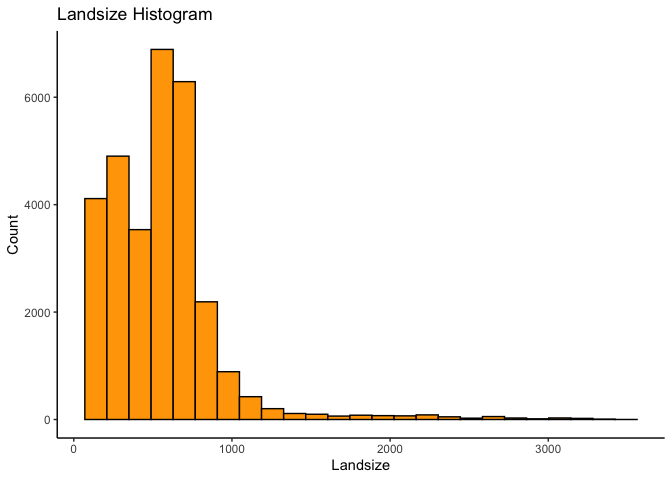
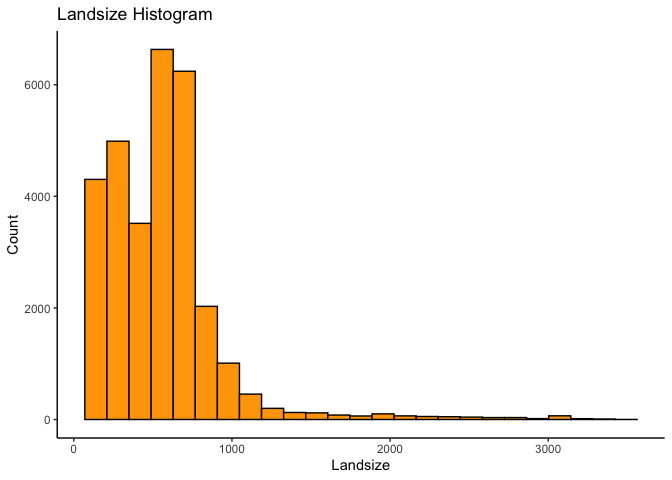
Changed parameter of 'geom_vline' functions due to package update.

diff --git a/README.md b/README.md
@@ -1258,20 +1258,20 @@ summary(housing_dataset)
 
     ##       Date                     Type           Price            Landsize     
     ##  Min.   :2016-01-28   House      :22243   Min.   : 310000   Min.   :  82.0  
-    ##  1st Qu.:2016-12-03   Townhouse  : 3149   1st Qu.: 675000   1st Qu.: 302.0  
-    ##  Median :2017-07-29   Unit/Duplex: 4857   Median : 910000   Median : 552.0  
-    ##  Mean   :2017-06-07                       Mean   :1063180   Mean   : 544.3  
-    ##  3rd Qu.:2017-11-11                       3rd Qu.:1320000   3rd Qu.: 684.0  
+    ##  1st Qu.:2016-12-03   Townhouse  : 3149   1st Qu.: 670000   1st Qu.: 307.0  
+    ##  Median :2017-07-29   Unit/Duplex: 4857   Median : 910000   Median : 553.0  
+    ##  Mean   :2017-06-07                       Mean   :1068571   Mean   : 555.8  
+    ##  3rd Qu.:2017-11-11                       3rd Qu.:1325000   3rd Qu.: 691.0  
     ##  Max.   :2018-03-17                       Max.   :3400000   Max.   :3434.0  
     ##                                                                             
-    ##      Rooms          Bathroom          Car           Distance    
-    ##  Min.   :1.000   Min.   :1.000   Min.   :0.000   Min.   : 0.00  
-    ##  1st Qu.:3.000   1st Qu.:1.000   1st Qu.:1.000   1st Qu.: 7.00  
-    ##  Median :3.000   Median :2.000   Median :2.000   Median :10.70  
-    ##  Mean   :3.083   Mean   :1.595   Mean   :1.694   Mean   :11.66  
-    ##  3rd Qu.:4.000   3rd Qu.:2.000   3rd Qu.:2.000   3rd Qu.:14.30  
-    ##  Max.   :5.000   Max.   :4.000   Max.   :5.000   Max.   :48.10  
-    ##                                                                 
+    ##      Rooms          Bathroom        Car           Distance    
+    ##  Min.   :1.000   Min.   :1.0   Min.   :0.000   Min.   : 0.00  
+    ##  1st Qu.:3.000   1st Qu.:1.0   1st Qu.:1.000   1st Qu.: 7.00  
+    ##  Median :3.000   Median :2.0   Median :2.000   Median :10.70  
+    ##  Mean   :3.083   Mean   :1.6   Mean   :1.697   Mean   :11.66  
+    ##  3rd Qu.:4.000   3rd Qu.:2.0   3rd Qu.:2.000   3rd Qu.:14.30  
+    ##  Max.   :5.000   Max.   :4.0   Max.   :5.000   Max.   :48.10  
+    ##                                                               
     ##                       Regionname   Propertycount  
     ##  Southern Metropolitan     :9660   21650  :  788  
     ##  Northern Metropolitan     :8232   8870   :  646  
@@ -1291,20 +1291,20 @@ summary(housing_dataset)
 
     ##       Date                     Type           Price            Landsize     
     ##  Min.   :2016-01-28   House      :22243   Min.   : 310000   Min.   :  82.0  
-    ##  1st Qu.:2016-12-03   Townhouse  : 3149   1st Qu.: 675000   1st Qu.: 302.0  
-    ##  Median :2017-07-29   Unit/Duplex: 4857   Median : 910000   Median : 552.0  
-    ##  Mean   :2017-06-07                       Mean   :1063180   Mean   : 544.3  
-    ##  3rd Qu.:2017-11-11                       3rd Qu.:1320000   3rd Qu.: 684.0  
+    ##  1st Qu.:2016-12-03   Townhouse  : 3149   1st Qu.: 670000   1st Qu.: 307.0  
+    ##  Median :2017-07-29   Unit/Duplex: 4857   Median : 910000   Median : 553.0  
+    ##  Mean   :2017-06-07                       Mean   :1068571   Mean   : 555.8  
+    ##  3rd Qu.:2017-11-11                       3rd Qu.:1325000   3rd Qu.: 691.0  
     ##  Max.   :2018-03-17                       Max.   :3400000   Max.   :3434.0  
     ##                                                                             
-    ##      Rooms          Bathroom          Car           Distance    
-    ##  Min.   :1.000   Min.   :1.000   Min.   :0.000   Min.   : 0.00  
-    ##  1st Qu.:3.000   1st Qu.:1.000   1st Qu.:1.000   1st Qu.: 7.00  
-    ##  Median :3.000   Median :2.000   Median :2.000   Median :10.70  
-    ##  Mean   :3.083   Mean   :1.595   Mean   :1.694   Mean   :11.66  
-    ##  3rd Qu.:4.000   3rd Qu.:2.000   3rd Qu.:2.000   3rd Qu.:14.30  
-    ##  Max.   :5.000   Max.   :4.000   Max.   :5.000   Max.   :48.10  
-    ##                                                                 
+    ##      Rooms          Bathroom        Car           Distance    
+    ##  Min.   :1.000   Min.   :1.0   Min.   :0.000   Min.   : 0.00  
+    ##  1st Qu.:3.000   1st Qu.:1.0   1st Qu.:1.000   1st Qu.: 7.00  
+    ##  Median :3.000   Median :2.0   Median :2.000   Median :10.70  
+    ##  Mean   :3.083   Mean   :1.6   Mean   :1.697   Mean   :11.66  
+    ##  3rd Qu.:4.000   3rd Qu.:2.0   3rd Qu.:2.000   3rd Qu.:14.30  
+    ##  Max.   :5.000   Max.   :4.0   Max.   :5.000   Max.   :48.10  
+    ##                                                               
     ##                       Regionname   Propertycount  
     ##  Southern Metropolitan     :9660   21650  :  788  
     ##  Northern Metropolitan     :8232   8870   :  646  
@@ -1541,14 +1541,14 @@ quantile(housing_dataset$Price, 0.25)
 ```
 
     ##    25% 
-    ## 675000
+    ## 670000
 
 ``` r
 quantile(housing_dataset$Price, 0.75)
 ```
 
     ##     75% 
-    ## 1320000
+    ## 1325000
 
 Then let’s use this data as a filter and define new variables.
 
@@ -1566,29 +1566,29 @@ summary(lowpriced_properties)
 ```
 
     ##       Date                     Type          Price           Landsize     
-    ##  Min.   :2016-02-04   House      :3762   Min.   :310000   Min.   :  82.0  
-    ##  1st Qu.:2017-03-18   Townhouse  : 824   1st Qu.:473000   1st Qu.: 285.0  
-    ##  Median :2017-08-26   Unit/Duplex:2962   Median :555000   Median : 542.0  
-    ##  Mean   :2017-07-02                      Mean   :540735   Mean   : 555.3  
-    ##  3rd Qu.:2017-11-18                      3rd Qu.:620000   3rd Qu.: 678.0  
-    ##  Max.   :2018-03-17                      Max.   :674000   Max.   :3434.0  
+    ##  Min.   :2016-02-04   House      :3696   Min.   :310000   Min.   :  82.0  
+    ##  1st Qu.:2017-03-18   Townhouse  : 799   1st Qu.:474000   1st Qu.: 297.0  
+    ##  Median :2017-08-26   Unit/Duplex:2930   Median :550000   Median : 550.0  
+    ##  Mean   :2017-07-02                      Mean   :538001   Mean   : 573.4  
+    ##  3rd Qu.:2017-11-18                      3rd Qu.:615000   3rd Qu.: 691.0  
+    ##  Max.   :2018-03-17                      Max.   :669000   Max.   :3348.0  
     ##                                                                           
-    ##      Rooms          Bathroom          Car           Distance    
-    ##  Min.   :1.000   Min.   :1.000   Min.   :0.000   Min.   : 0.00  
-    ##  1st Qu.:2.000   1st Qu.:1.000   1st Qu.:1.000   1st Qu.: 8.40  
-    ##  Median :3.000   Median :1.000   Median :1.000   Median :12.90  
-    ##  Mean   :2.584   Mean   :1.328   Mean   :1.498   Mean   :14.33  
-    ##  3rd Qu.:3.000   3rd Qu.:2.000   3rd Qu.:2.000   3rd Qu.:18.40  
-    ##  Max.   :5.000   Max.   :4.000   Max.   :5.000   Max.   :48.10  
-    ##                                                                 
+    ##      Rooms         Bathroom          Car           Distance   
+    ##  Min.   :1.00   Min.   :1.000   Min.   :0.000   Min.   : 0.0  
+    ##  1st Qu.:2.00   1st Qu.:1.000   1st Qu.:1.000   1st Qu.: 8.4  
+    ##  Median :3.00   Median :1.000   Median :1.000   Median :12.9  
+    ##  Mean   :2.58   Mean   :1.337   Mean   :1.503   Mean   :14.4  
+    ##  3rd Qu.:3.00   3rd Qu.:2.000   3rd Qu.:2.000   3rd Qu.:18.4  
+    ##  Max.   :5.00   Max.   :4.000   Max.   :5.000   Max.   :48.1  
+    ##                                                               
     ##                       Regionname   Propertycount 
-    ##  Northern Metropolitan     :2779   21650  : 356  
-    ##  Western Metropolitan      :2031   8870   : 230  
-    ##  Southern Metropolitan     :1348   15510  : 193  
-    ##  Eastern Metropolitan      : 558   13830  : 141  
-    ##  South-Eastern Metropolitan: 510   14092  : 131  
-    ##  Northern Victoria         : 133   16166  : 128  
-    ##  (Other)                   : 189   (Other):6369
+    ##  Northern Metropolitan     :2695   21650  : 343  
+    ##  Western Metropolitan      :2008   8870   : 230  
+    ##  Southern Metropolitan     :1326   15510  : 191  
+    ##  Eastern Metropolitan      : 551   13830  : 144  
+    ##  South-Eastern Metropolitan: 522   14092  : 130  
+    ##  Northern Victoria         : 130   16166  : 127  
+    ##  (Other)                   : 193   (Other):6260
 
 When we look at low-priced properties, we see that there are mostly
 House and Unit/Duplex properties. Almost all Unit/Duplex type properties
@@ -1602,30 +1602,30 @@ center and at the farthest point from the center.
 summary(midpriced_properties)
 ```
 
-    ##       Date                     Type           Price            Landsize   
-    ##  Min.   :2016-01-28   House      :11521   Min.   : 675000   Min.   :  82  
-    ##  1st Qu.:2016-12-03   Townhouse  : 1892   1st Qu.: 786000   1st Qu.: 287  
-    ##  Median :2017-07-22   Unit/Duplex: 1753   Median : 910000   Median : 538  
-    ##  Mean   :2017-06-07                       Mean   : 944768   Mean   : 527  
-    ##  3rd Qu.:2017-11-11                       3rd Qu.:1100000   3rd Qu.: 670  
-    ##  Max.   :2018-03-17                       Max.   :1320000   Max.   :3414  
-    ##                                                                           
-    ##      Rooms         Bathroom          Car           Distance    
-    ##  Min.   :1.00   Min.   :1.000   Min.   :0.000   Min.   : 0.00  
-    ##  1st Qu.:3.00   1st Qu.:1.000   1st Qu.:1.000   1st Qu.: 7.00  
-    ##  Median :3.00   Median :1.000   Median :2.000   Median :11.20  
-    ##  Mean   :3.08   Mean   :1.546   Mean   :1.695   Mean   :11.59  
-    ##  3rd Qu.:4.00   3rd Qu.:2.000   3rd Qu.:2.000   3rd Qu.:14.50  
-    ##  Max.   :5.00   Max.   :4.000   Max.   :5.000   Max.   :48.10  
-    ##                                                                
+    ##       Date                     Type           Price            Landsize     
+    ##  Min.   :2016-01-28   House      :11603   Min.   : 670000   Min.   :  82.0  
+    ##  1st Qu.:2016-12-03   Townhouse  : 1906   1st Qu.: 785000   1st Qu.: 290.0  
+    ##  Median :2017-07-22   Unit/Duplex: 1779   Median : 910000   Median : 537.0  
+    ##  Mean   :2017-06-07                       Mean   : 945371   Mean   : 536.8  
+    ##  3rd Qu.:2017-11-11                       3rd Qu.:1100000   3rd Qu.: 675.0  
+    ##  Max.   :2018-03-17                       Max.   :1325000   Max.   :3434.0  
+    ##                                                                             
+    ##      Rooms          Bathroom          Car           Distance    
+    ##  Min.   :1.000   Min.   :1.000   Min.   :0.000   Min.   : 0.00  
+    ##  1st Qu.:3.000   1st Qu.:1.000   1st Qu.:1.000   1st Qu.: 7.20  
+    ##  Median :3.000   Median :1.000   Median :2.000   Median :11.10  
+    ##  Mean   :3.078   Mean   :1.552   Mean   :1.694   Mean   :11.59  
+    ##  3rd Qu.:4.000   3rd Qu.:2.000   3rd Qu.:2.000   3rd Qu.:14.50  
+    ##  Max.   :5.000   Max.   :4.000   Max.   :5.000   Max.   :48.10  
+    ##                                                                 
     ##                       Regionname   Propertycount  
-    ##  Northern Metropolitan     :4292   21650  :  414  
-    ##  Southern Metropolitan     :3905   10969  :  406  
-    ##  Western Metropolitan      :3268   8870   :  343  
-    ##  Eastern Metropolitan      :2531   14577  :  310  
-    ##  South-Eastern Metropolitan:1008   11204  :  255  
-    ##  Eastern Victoria          : 104   11918  :  220  
-    ##  (Other)                   :  58   (Other):13218
+    ##  Northern Metropolitan     :4332   21650  :  422  
+    ##  Southern Metropolitan     :3936   10969  :  399  
+    ##  Western Metropolitan      :3315   8870   :  351  
+    ##  Eastern Metropolitan      :2561   14577  :  315  
+    ##  South-Eastern Metropolitan: 981   11204  :  264  
+    ##  Eastern Victoria          : 106   11918  :  236  
+    ##  (Other)                   :  57   (Other):13301
 
 When we look at mid-priced houses, we can see that more House type
 properties are in this scale. Although there is not a big difference in
@@ -1640,30 +1640,30 @@ located in mid-priced properties.
 summary(highpriced_properties)
 ```
 
-    ##       Date                     Type          Price            Landsize     
-    ##  Min.   :2016-01-28   House      :6960   Min.   :1321000   Min.   :  83.0  
-    ##  1st Qu.:2016-11-19   Townhouse  : 433   1st Qu.:1470000   1st Qu.: 348.0  
-    ##  Median :2017-06-17   Unit/Duplex: 142   Median :1690000   Median : 590.0  
-    ##  Mean   :2017-05-13                      Mean   :1824860   Mean   : 568.2  
-    ##  3rd Qu.:2017-10-28                      3rd Qu.:2020000   3rd Qu.: 704.0  
-    ##  Max.   :2018-03-17                      Max.   :3400000   Max.   :3381.0  
-    ##                                                                            
+    ##       Date                     Type          Price            Landsize   
+    ##  Min.   :2016-01-28   House      :6944   Min.   :1325500   Min.   :  83  
+    ##  1st Qu.:2016-11-19   Townhouse  : 444   1st Qu.:1480000   1st Qu.: 358  
+    ##  Median :2017-06-17   Unit/Duplex: 148   Median :1700000   Median : 588  
+    ##  Mean   :2017-05-12                      Mean   :1841257   Mean   : 577  
+    ##  3rd Qu.:2017-10-28                      3rd Qu.:2053000   3rd Qu.: 706  
+    ##  Max.   :2018-03-17                      Max.   :3400000   Max.   :3381  
+    ##                                                                          
     ##      Rooms          Bathroom          Car           Distance     
     ##  Min.   :1.000   Min.   :1.000   Min.   :0.000   Min.   : 0.000  
     ##  1st Qu.:3.000   1st Qu.:1.000   1st Qu.:1.000   1st Qu.: 5.900  
     ##  Median :4.000   Median :2.000   Median :2.000   Median : 8.700  
-    ##  Mean   :3.589   Mean   :1.961   Mean   :1.888   Mean   : 9.141  
+    ##  Mean   :3.587   Mean   :1.958   Mean   :1.891   Mean   : 9.112  
     ##  3rd Qu.:4.000   3rd Qu.:2.000   3rd Qu.:2.000   3rd Qu.:11.400  
     ##  Max.   :5.000   Max.   :4.000   Max.   :5.000   Max.   :38.000  
     ##                                                                  
     ##                       Regionname   Propertycount 
-    ##  Southern Metropolitan     :4407   7809   : 266  
-    ##  Northern Metropolitan     :1161   8920   : 245  
-    ##  Eastern Metropolitan      :1018   10331  : 237  
-    ##  Western Metropolitan      : 807   6938   : 231  
-    ##  South-Eastern Metropolitan: 137   10579  : 226  
-    ##  Eastern Victoria          :   3   10412  : 224  
-    ##  (Other)                   :   2   (Other):6106
+    ##  Southern Metropolitan     :4398   7809   : 268  
+    ##  Northern Metropolitan     :1205   6938   : 235  
+    ##  Eastern Metropolitan      : 995   10331  : 232  
+    ##  Western Metropolitan      : 783   10579  : 230  
+    ##  South-Eastern Metropolitan: 152   8920   : 229  
+    ##  Eastern Victoria          :   2   10412  : 217  
+    ##  (Other)                   :   1   (Other):6125
 
 When we look at the high-priced properties, we can say that almost all
 of them are House-type houses. When we check the distance value, it is
@@ -1708,7 +1708,7 @@ round(cor(housing_dataset[, c("Price", "Landsize", "Rooms", "Bathroom", "Car", "
 ```
 
     ##    Price Landsize    Rooms Bathroom      Car Distance 
-    ##     1.00     0.04     0.44     0.40     0.16    -0.27
+    ##     1.00     0.03     0.44     0.39     0.16    -0.27
 
 As we can see from the table above, most of the numerical values in our
 table affects the Price significantly.
